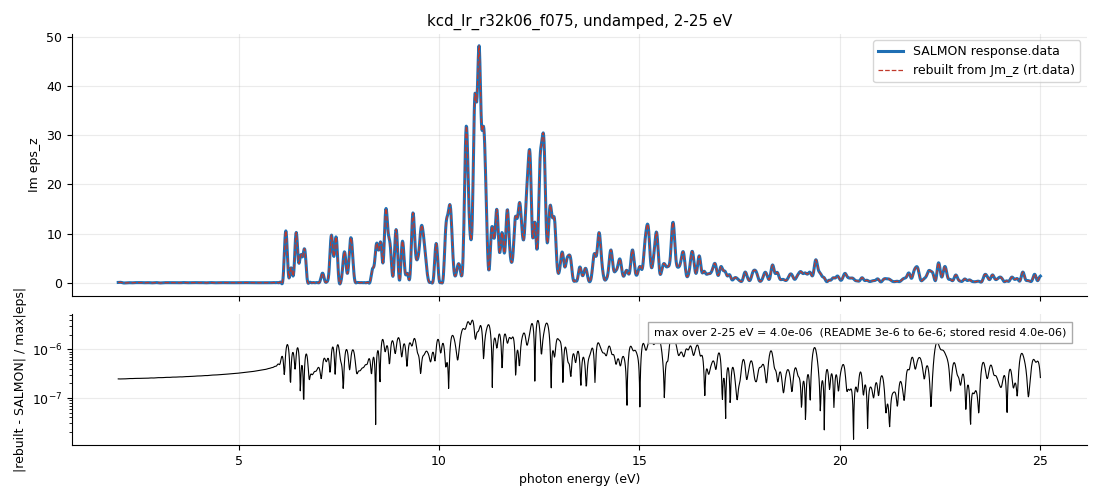
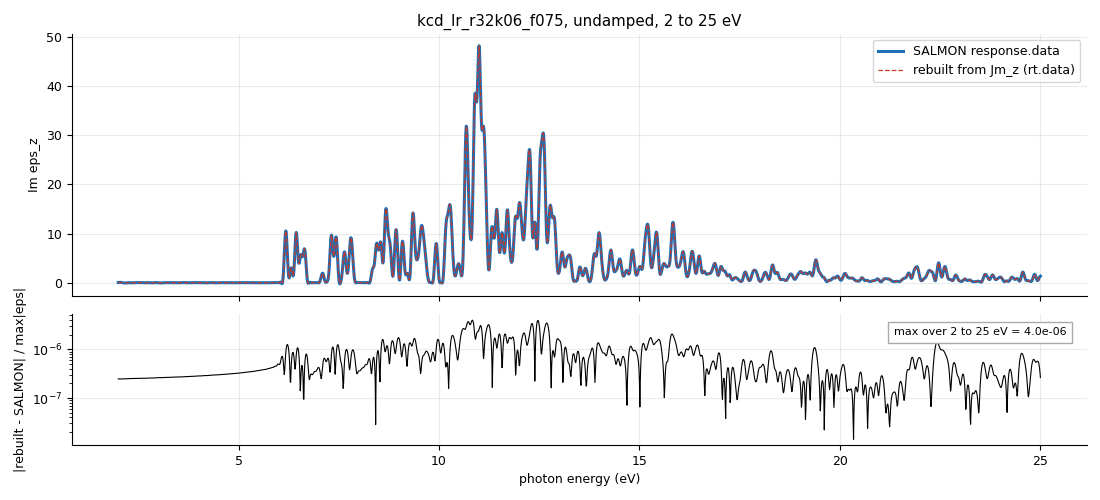
tutorial 012: review fixes for the judgments commit
Keep the k-ladder table whole and put the row 7 note next to the record;
read the recorded percentages in the Re eps_z figure; build the truncated
damped spectra inside the plot script; drop the arrow and use 'to' for ranges;
name the intensity figure explicitly. Figures and script hashes refreshed.

Changed region(s): [[0.5873, 0.63, 0.9891, 0.69], [0.3709, 0.03, 0.68, 0.06]]

diff --git a/tutorials/012-diamond-linear-response-and-pulse-dt-k-intensity-scaling/scripts/plot_dt_rebuild_intensity.py b/tutorials/012-diamond-linear-response-and-pulse-dt-k-intensity-scaling/scripts/plot_dt_rebuild_intensity.py
@@ -5,6 +5,8 @@ import numpy as np
 import matplotlib; matplotlib.use("Agg")
 import matplotlib.pyplot as plt
 C=sys.argv[1]
+sys.path.insert(0,os.path.dirname(os.path.abspath(__file__)))
+import rebuild_damped_spectrum as rds
 OUT=sys.argv[2]
 plt.rcParams.update({"font.size":9,"axes.grid":True,"grid.alpha":.25,"axes.spines.top":False,"axes.spines.right":False})
 FS_AU=41.341373336; HA_EV=27.211386245988; E_IMP=1e-2
@@ -35,8 +37,12 @@ _,im50=rebuild(s,j,DT["f050"],NT["f050"],E)
 pk=im50[(E>=1)&(E<=15)].max()
 d=im50-im75; dp=100*d/pk
 m=(E>=1)&(E<=15); k=np.argmax(np.abs(dp[m])); d_und=np.abs(dp[m]).max(); e_und=E[m][k]
-z75=np.load(f"{C}/{r75}/eps_tau10_T47.3.npz"); z50=np.load(f"{C}/{r50}/eps_tau10_T47.3.npz")
-w=z75["w_eV"]; i75=z75["eps"].imag; i50=z50["eps"].imag
+# damped (tau 10 fs) spectra of both runs cut at 47.3 fs, with the complex factor fitted on the finished run
+Cf=complex(np.load(f"{C}/{r75}/eps_tau10.npz")["calib"]); w=np.arange(0.01,30+1e-9,0.01)
+def damped_cut(run):
+    t,jj,_,_=rds.load(f"{C}/{run}",47.3)
+    return (1+Cf*1j*rds.transform(t,jj,w,tau=10.0)/w).imag
+i75=damped_cut(r75); i50=damped_cut(r50)
 pkd=i50[(w>=1)&(w<=15)].max(); dd=100*(i50-i75)/pkd
 md=(w>=5)&(w<=25); kd=np.argmax(np.abs(dd[md])); d_dmp=np.abs(dd[md]).max(); d_dmp1=np.abs(dd[(w>=1)&(w<=15)]).max()
 # shape: after best rigid shift
@@ -53,8 +59,8 @@ for col,(x,y75,y50,dd_,ttl,lo,hi) in enumerate(((E,im75,im50,dp,"undamped",1,16)
     ax[0,col].plot(x,y75,color="#1f6fb4",lw=1.6,label="75 % of limit (dt 7.8e-5 fs)"); ax[0,col].plot(x,y50,color="#c0392b",lw=1,ls="--",label="50 % of limit (dt 5.2e-5 fs)")
     ax[0,col].set_xlim(lo,hi); ax[0,col].set_ylim(-2,1.05*max(y75[(x>=lo)&(x<=hi)].max(),y50[(x>=lo)&(x<=hi)].max())); ax[0,col].set_title("Im eps_z, "+ttl,fontsize=9); ax[0,col].legend(fontsize=8,loc="upper left"); ax[0,col].set_ylabel("Im eps_z")
     ax[1,col].plot(x,dd_,color="k",lw=.8); ax[1,col].set_xlim(lo,hi); ax[1,col].set_ylim(-0.08,0.2); ax[1,col].set_xlabel("photon energy (eV)"); ax[1,col].set_ylabel("50 % - 75 %  (% of peak)")
-ax[1,0].text(.98,.95,f"max |diff| (1-15 eV) = {d_und:.3f} % of peak at {e_und:.2f} eV\nREADME: 0.043 % at 1.04 eV",transform=ax[1,0].transAxes,ha="right",va="top",fontsize=8,bbox=dict(fc="w",ec="#aaa"))
-ax[1,1].text(.98,.95,f"max pointwise (5-25 eV) = {d_dmp:.3f} % of peak (1-15 eV incl. sub-gap tail: {d_dmp1:.3f} %)\nshape after rigid shift ({best[1]*1e3:+.1f} meV, 5-25 eV) = {shape:.3f} %\nREADME: 0.01 % pointwise and in shape",transform=ax[1,1].transAxes,ha="right",va="top",fontsize=8,bbox=dict(fc="w",ec="#aaa"))
+ax[1,0].text(.98,.95,f"max |diff| (1 to 15 eV) = {d_und:.3f} % of peak at {e_und:.2f} eV",transform=ax[1,0].transAxes,ha="right",va="top",fontsize=8,bbox=dict(fc="w",ec="#aaa"))
+ax[1,1].text(.98,.95,f"max pointwise (5 to 25 eV) = {d_dmp:.3f} % of peak \n(1 to 15 eV incl. sub-gap tail: {d_dmp1:.3f} %)\nshape after rigid shift ({best[1]*1e3:+.1f} meV, 5 to 25 eV) = {shape:.3f} %",transform=ax[1,1].transAxes,ha="right",va="top",fontsize=8,bbox=dict(fc="w",ec="#aaa"))
 fig.suptitle("012 section 1: time step, r32 k6, 50 % vs 75 % of the stability estimate",y=.995); fig.tight_layout(); fig.savefig(f"{OUT}/dt-50-vs-75.png",dpi=100); plt.close(fig)
 # ---------- f012-intensity
 runs=[("1e11","kcd_rt_r32k06_I11_f050",1e11,"#1f6fb4"),("1e12","kcd_rt_r32k06_I12_f050",1e12,"#d08a1c"),("1e13","kcd_rt_r32k06_I13_f050",1e13,"#c0392b")]
@@ -74,11 +80,11 @@ fits={}
 for nm,y,c,mk in (("residual energy (eV)",Eres,"#222","o"),("N_e",Ne,"#1f6fb4","s"),("N_h",Nh,"#c0392b","^")):
     p=np.polyfit(np.log10(Is),np.log10(y),1)[0]; fits[nm]=p
     ax[1].loglog(Is,y,mk+"-",color=c,label=f"{nm}: fitted slope {p:.2f}")
-ax[1].loglog(Is[0],Nh[0],"o",ms=14,mfc="none",mec="#c0392b"); ax[1].annotate("1e11 N_h: projection floor\n(1e-4 e-h diff. > value)",(Is[0],Nh[0]),xytext=(1.3e11,3e-6),fontsize=8,arrowprops=dict(arrowstyle="->"))
+ax[1].loglog(Is[0],Nh[0],"o",ms=14,mfc="none",mec="#c0392b"); ax[1].annotate("1e11 N_h: projection floor\n(1e-4 e-h diff. > value)",(Is[0],Nh[0]),xytext=(1.3e11,3e-6),fontsize=8)
 x=np.array([1e11,1e13]); anch=Ne[1]
 ax[1].loglog(x,anch*(x/1e12)**n4,"k--",lw=1,label=f"reference slope {n4} (= ceil({gap}/{om}); 4 x 1.55 = {4*om:.2f} eV)")
 ax[1].loglog(x,anch*(x/1e12)**n3,color="#888",ls=":",lw=1,label=f"reference slope {n3} (= ceil(4 eV LDA gap / {om}))")
-ax[1].set_xlabel("peak intensity (W/cm2)"); ax[1].set_title("at 20 fs; README average exponents: 2.99 / 2.96 / 2.46",fontsize=9); ax[1].legend(fontsize=7,loc="upper left"); ax[1].set_ylim(1e-9,1e-1)
+ax[1].set_xlabel("peak intensity (W/cm2)"); ax[1].set_title("at 20 fs, fitted over 1e11 to 1e13",fontsize=9); ax[1].legend(fontsize=7,loc="upper left"); ax[1].set_ylim(1e-9,1e-1)
 fig.suptitle("012 section 9: pulse intensity scaling (r32 k6)",y=.995); fig.tight_layout(); fig.savefig(f"{OUT}/intensity-scaling.png",dpi=100); plt.close(fig)
 print(fits,n3,n4,"E/Ne",Eres/Ne)
 # ---------- f012-rebuild
@@ -89,7 +95,7 @@ rel=np.abs(eu-es)/np.abs(es); relmax=np.max(np.abs(eu-es)[mk])/np.max(np.abs(es[
 print("rebuild rel max (norm. to peak |eps|) %.2e; pointwise rel max %.2e"%(relmax,rel[mk].max()))
 fig,ax=plt.subplots(2,1,figsize=(11,5),sharex=True,gridspec_kw={"height_ratios":[2,1]})
 ax[0].plot(w[mk],es.imag[mk],color="#1f6fb4",lw=2.2,label="SALMON response.data"); ax[0].plot(w[mk],eu.imag[mk],color="#c0392b",lw=.9,ls="--",label="rebuilt from Jm_z (rt.data)")
-ax[0].set_ylabel("Im eps_z"); ax[0].legend(); ax[0].set_title("kcd_lr_r32k06_f075, undamped, 2-25 eV")
+ax[0].set_ylabel("Im eps_z"); ax[0].legend(); ax[0].set_title("kcd_lr_r32k06_f075, undamped, 2 to 25 eV")
 ax[1].semilogy(w[mk],np.abs(eu-es)[mk]/np.max(np.abs(es[mk])),color="k",lw=.8); ax[1].set_ylabel("|rebuilt - SALMON| / max|eps|"); ax[1].set_xlabel("photon energy (eV)")
-ax[1].text(.98,.9,f"max over 2-25 eV = {relmax:.1e}  (README 3e-6 to 6e-6; stored resid {float(z['resid']):.1e})",transform=ax[1].transAxes,ha="right",va="top",fontsize=8,bbox=dict(fc="w",ec="#aaa"))
+ax[1].text(.98,.9,f"max over 2 to 25 eV = {relmax:.1e}",transform=ax[1].transAxes,ha="right",va="top",fontsize=8,bbox=dict(fc="w",ec="#aaa"))
 fig.tight_layout(); fig.savefig(f"{OUT}/rebuild-vs-salmon.png",dpi=100); plt.close(fig)

diff --git a/tutorials/012-diamond-linear-response-and-pulse-dt-k-intensity-scaling/scripts/plot_re_eps_ladders.py b/tutorials/012-diamond-linear-response-and-pulse-dt-k-intensity-scaling/scripts/plot_re_eps_ladders.py
@@ -1,6 +1,6 @@
 """Re eps_z at 1 eV (tau 10 fs) along the r and k ladders of tutorial 012, as is and baseline subtracted.
-Values from provenance/ladder-script-output.txt (baseline table).
-Usage: plot_re_eps_ladders.py <figure dir>"""
+Values and percentages from provenance/ladder-script-output.txt (baseline table).
+Usage: plot_re_eps_ladders.py <figure dir> <path of ladder-script-output.txt>"""
 import sys
 import matplotlib
 matplotlib.use("Agg")
@@ -12,6 +12,22 @@ r_sub = [5.890, 5.883, 5.884, 5.884, 5.884]
 k = [6, 8, 10, 12, 16, 20, 24]
 k_as = [5.533, 5.592, 5.565, 5.563, 5.569, 5.577, 5.575]
 k_sub = [5.883, 5.857, 5.813, 5.806, 5.803, 5.810, 5.808]
+# recorded percentages (reference rung = 0.00), read from the output file
+rec = {}
+blk = False
+for line in open(sys.argv[2]):
+    if line.startswith("Re eps_z at 1 eV, baseline subtracted, relative to the reference"):
+        blk = True
+        continue
+    if blk and line.startswith("r ladder, reference r32:"):
+        v = line.split(":", 1)[1].split()
+        rec["r"] = dict(zip(map(int, v[0::2]), map(float, v[1::2])))
+    elif blk and line.startswith("k ladder, reference k24:"):
+        v = line.split(":", 1)[1].split()
+        rec["k"] = dict(zip(map(int, v[0::2]), map(float, v[1::2])))
+        break
+rec["r"][32] = 0.0
+rec["k"][24] = 0.0
 
 fig, ax = plt.subplots(1, 2, figsize=(11, 4.6), sharey=True)
 for a, x, y0, y1, ref, lab, refname in (
@@ -21,7 +37,7 @@ for a, x, y0, y1, ref, lab, refname in (
     a.plot(x, y0, "o--", color="0.55", label="as is")
     a.plot(x, y1, "s-", color="tab:blue", label="baseline subtracted")
     for xi, yi in zip(x, y1):
-        a.annotate(f"{100 * (yi / ref - 1):+.2f} %", (xi, yi), textcoords="offset points", xytext=(0, 8),
+        a.annotate(f"{rec['r' if refname == 'r32' else 'k'][xi]:+.2f} %", (xi, yi), textcoords="offset points", xytext=(0, 8),
                    ha="center", fontsize=8, color="tab:blue")
     a.set_xticks(x)
     a.set_xlabel(lab)

diff --git a/tutorials/012-diamond-linear-response-and-pulse-dt-k-intensity-scaling/README.md b/tutorials/012-diamond-linear-response-and-pulse-dt-k-intensity-scaling/README.md
@@ -112,7 +112,7 @@ r = 20). Every linear-response run is 50 fs long with an impulse along z.
   5.813, within 0.1 % of k24 = 5.808), slightly above the low-frequency limit. Its grid
   independence was measured at k6, where the value is 5.88 (r16 to r32 within about 0.1 % of r32;
   k6 is 1.29 % above k24, k8 0.84 %). The first-pass plateau reading is 5.808 as is and 5.897
-  subtracted (1-2 eV, undamped, r32 k6).
+  subtracted (1 to 2 eV, undamped, r32 k6).
 - **Pulse, 1.55 eV, 20 fs, 1e11 / 1e12 / 1e13 W/cm^2** (k6, r32, 50 % time step). The peak
   excitation energy during the pulse scales linearly with intensity (exponent 1.03). From
   1e11 to 1e13 W/cm^2 the number of excited electrons and the absorbed energy left after the
@@ -494,8 +494,6 @@ Against k24, tau = 10 fs, 5-25 eV:
 | 8 | -26.0 | 28.6 | 29.9 | +0.31 | +0.84 |
 | 10 | -40.5 | 19.1 | 21.2 | -0.19 | +0.08 |
 | 12 | -32.0 | 14.9 | 16.9 | -0.22 | -0.04 |
-
-Row 7 (rebuilt spectra) is not a judgment; it moved to [Procedure](#procedure) and its number is not reused.
 | 16 | +22.0 | 10.7 | 12.1 | -0.11 | -0.10 |
 | 20 | +13.5 | 3.5 | 5.5 | +0.04 | +0.04 |
 
@@ -565,7 +563,7 @@ r20 k6 is enough.
 
 ![Left: excitation energy per unit intensity against time. Right: residual energy, N_e and N_h at 20 fs against intensity with fitted slopes and reference slopes 3 and 4](figures/intensity-scaling.png)
 
-The second figure is drawn by
+The figure `intensity-scaling.png` is drawn by
 [scripts/plot_dt_rebuild_intensity.py](scripts/plot_dt_rebuild_intensity.py).
 
 `Eall - Eall0` is column 3 of `*_rt_energy.data`; the number of excited electrons and holes
@@ -604,7 +602,7 @@ Exponents p in (ratio of the quantity) = (ratio of intensities)^p:
   during the pulse (1e-4) is as large as the numbers themselves. The projection (CG to
   1e-6) is at its resolution there. The ratio residual / `N_e` (7.3 eV) agrees with the
   other two intensities, residual / `N_h` (0.7 eV) does not, so `N_e` and the energy are more
-  credible than `N_h` at 1e11 (the dashed curve in the second figure).
+  credible than `N_h` at 1e11 (the dashed curve in `rt-residual-vs-intensity.png`).
 - Each run finished all 384700 steps. The electron number printed in the standard output
   is 8.00000000 in every row (resolution 1e-8), no value in `rt.data`, `rt_energy.data`
   or `nex.data` is non-finite, and the current and the energy are flat after the pulse
@@ -680,6 +678,8 @@ the 8 to 10 k-points per process of the timing probe.
 | 10 | zones by use | as in section 8; chosen r20 k6 for the refractive index below the gap (`Re eps_z` at 1 eV, baseline subtracted) and r20 k20 for the absorption shape (`Im eps_z`, tau = 10 fs; the adopted point) | maintainer (2026-10-22): zones confirmed; r20 k6 for the refractive index below the gap, r20 k20 for the absorption shape | the r and k ladders, sections 6 and 7 | The r zones come from k6 and the k zones from r20; a combination was not run. The caution zone is where the difference is a few % (r) or about 10 % (k) and may or may not matter for the use. The zones use the baseline-subtracted `Re eps_z` (row 12). |
 | 11 | adopted (r, k) | r = 20, k = 20^3 (75 % time step, 50 fs, tau = 10 fs); no separate confirmation run | maintainer (2026-10-14) | sections 6 to 8 | The existing k-ladder run at r20 k20 is the adopted result. Alternatives offered and not taken: a confirmation run at r24 k20 (about 8e2 node-hours) and stating no adopted value. Known errors are stated in section 8. |
 | 12 | low-energy `Re eps_z` and the baseline of the post-kick current | `Re eps_z` at 1 eV must be read with the baseline of `Jm_z` subtracted (or `yn_lr_w0_correction = 'y'`); then r16 to r32 are within about 0.1 % of r32 and k12 to k20 within about 0.1 % of k24 (k8 0.84 %, k6 1.29 %); the as-is r dependence of the 1 eV value is the baseline, and the as-is k dependence is mostly baseline too; a residual k dependence remains with it subtracted (k6 1.29 %, k8 0.84 % against k24) | maintainer (2026-10-22): confirmed as proposed by the AI assistant | baseline d of every ladder run (1.8e-4 to 9.9e-4 of the peak of `Jm_z`); 8 fs Hann running mean of `Jm_z` over 30 to 46 fs; `Re eps_z` at 1, 2 and 5 eV and 0.5 to 4 eV, as is and subtracted | The running mean is flat at the same value as d, so it is a baseline and not leakage of the oscillations. It is the constant that SALMON removes with `yn_lr_w0_correction = 'y'`; the subtraction here is offline, not a SALMON run. Supersedes the 1 eV reason of rows 3, 4, 6 and 10 and of section 8; the adopted point (row 11) is not changed. k32 was not part of the ladder script output, so the k statement stops at k20. |
+
+Row 7 (rebuilt spectra) is not a judgment; it moved to [Procedure](#procedure) and its number is not reused.
 
 ## Assumptions made by the assistant
 
